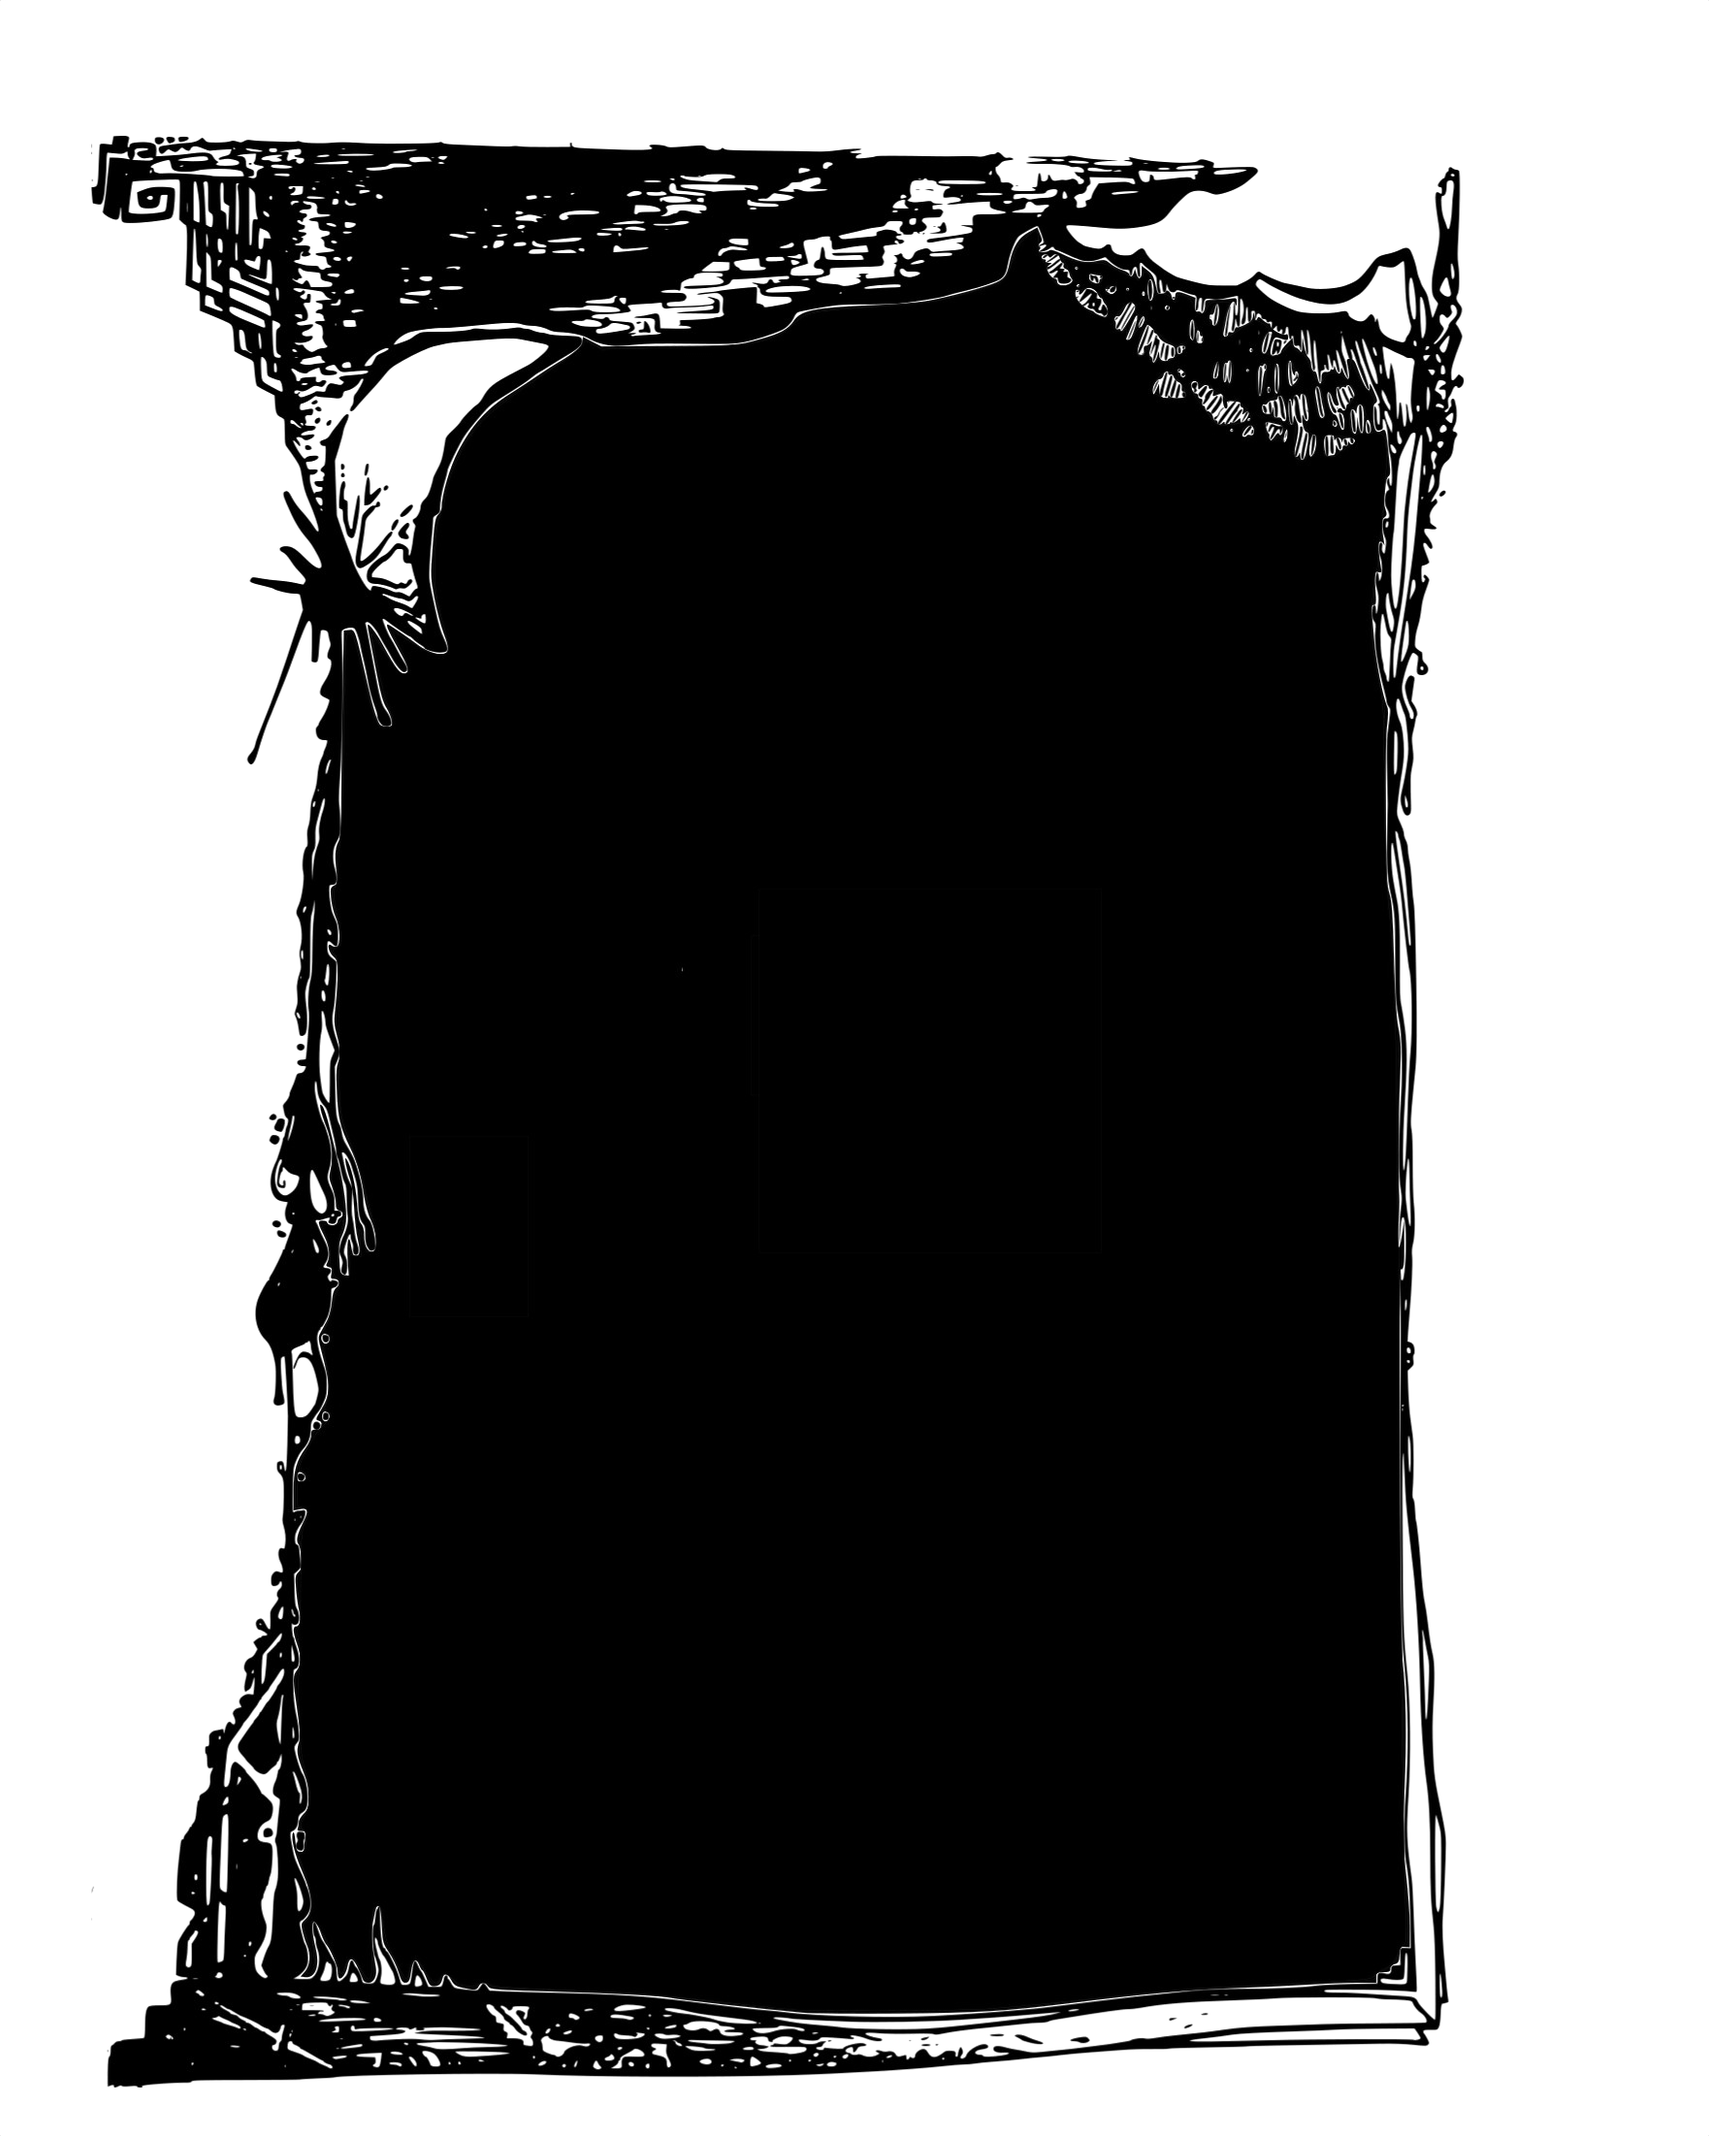
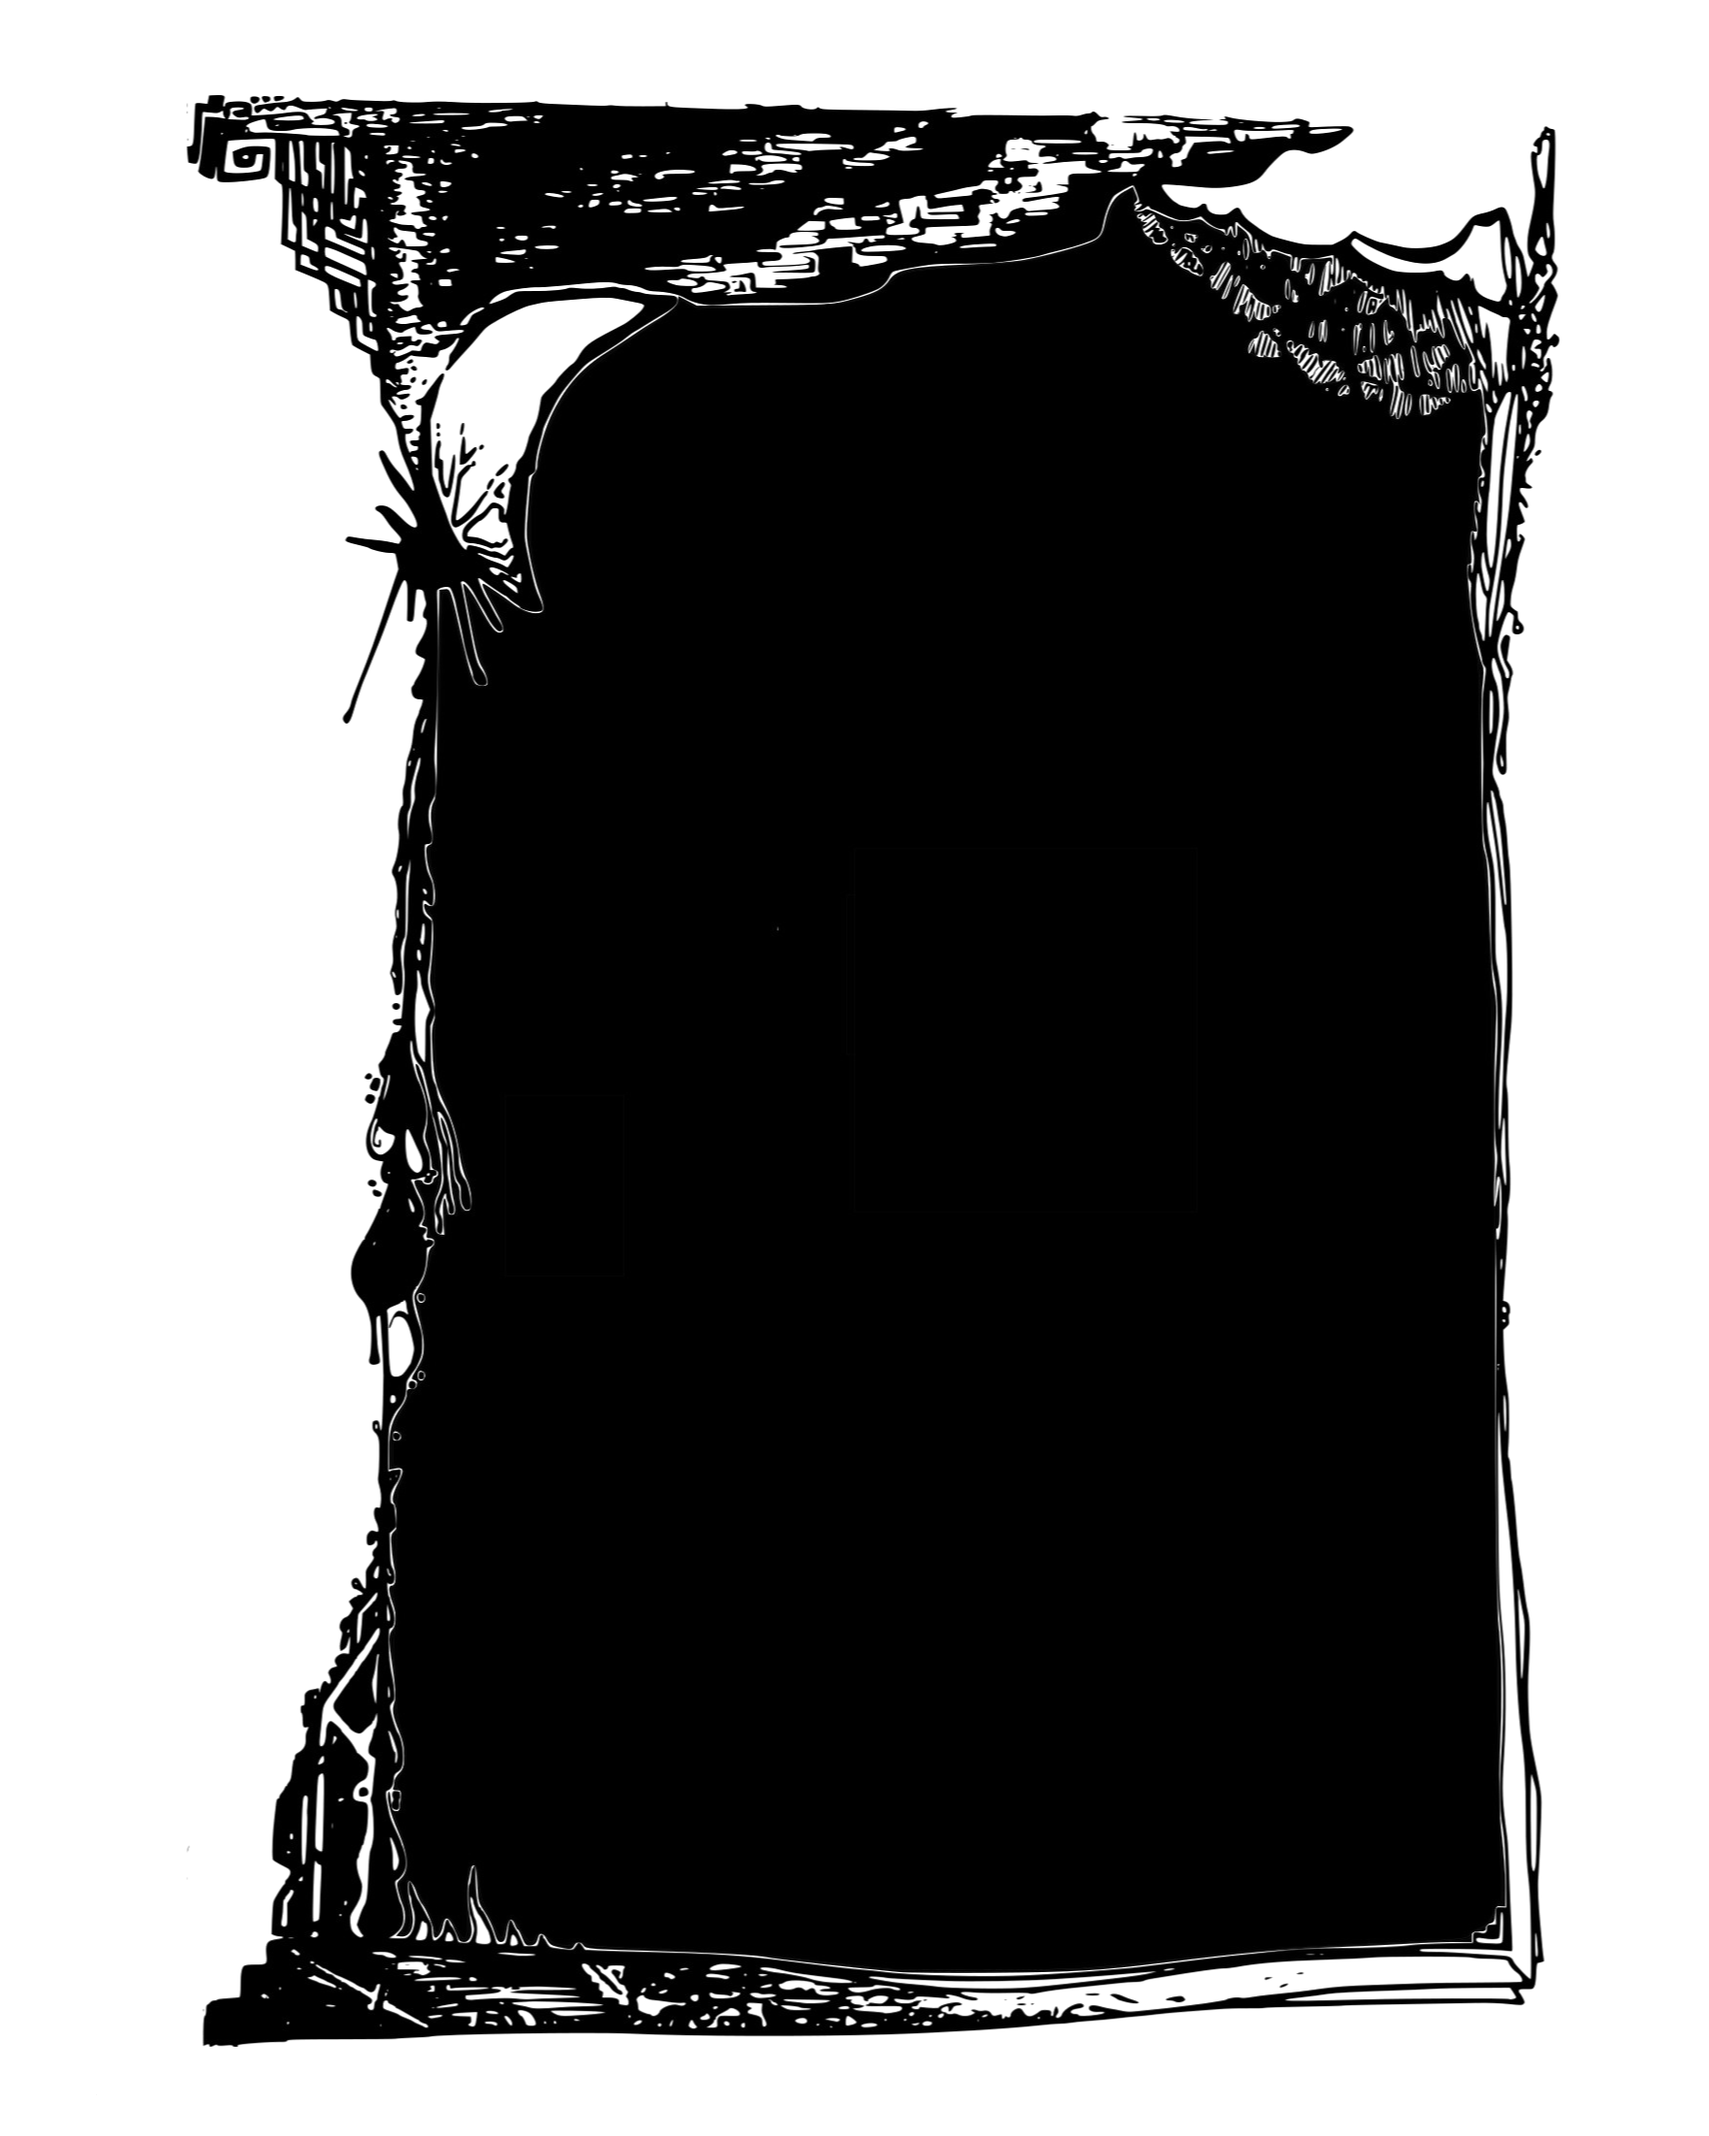
Audio: center the black frame and the Bandcamp player within it Codex: keep the figure off the border and blend its background
The audio-frame.png artwork had its painted black window off-center
within its own canvas (more empty margin on the right/bottom than
the left/top); recentered the asset itself via a measured pixel
shift, then recentered the Bandcamp player within the (now
centered) black zone to match.

The new codex corner figure overlapped the ink border on desktop
and its white jpg background clashed with the page; moved it to
the same 13%-ish safe inset used elsewhere and blended its
background with mix-blend-mode:multiply so the white disappears
against any page color.

Changed region(s): [[0.0312, 0.0309, 0.9364, 0.9882]]

diff --git a/styles.css b/styles.css
@@ -140,10 +140,14 @@ body.audio-page .frame-page { width: min(96vw, 1350px); }
 
 /* petite figure décorative calée dans le coin bas-gauche du cadre, dans la
    marge vide entre le contenu (centré) et le filet d'encre - % du cadre
-   pour rester à l'échelle, quelle que soit la largeur. */
-.codex-figure { position: absolute; left: 5%; bottom: 5%; width: 14%; height: auto; z-index: 1; }
+   pour rester à l'échelle, quelle que soit la largeur. Même inset que
+   .frame-content (13%) pour ne jamais déborder sur le filet d'encre.
+   mix-blend-mode:multiply - le fond blanc du jpg scanné devient transparent
+   (se fond dans la couleur de fond de la page, quelle qu'elle soit) tandis
+   que le trait noir reste noir. */
+.codex-figure { position: absolute; left: 15%; bottom: 14%; width: 12%; height: auto; z-index: 1; mix-blend-mode: multiply; }
 @media (max-width: 640px) {
-  .codex-figure { width: 20%; left: 4%; bottom: 3%; }
+  .codex-figure { width: 17%; left: 15%; bottom: 14%; }
 }
 
 /* les liens de contact doivent toujours tenir sur une seule ligne : une
@@ -173,7 +177,7 @@ body.audio-page .frame-page { width: min(96vw, 1350px); }
   position: relative; width: 100%; max-width: 950px; margin: 0 auto; flex-shrink: 0;
   aspect-ratio: 1762 / 2202;
   border-radius: 6px;
-  background-image: url(audio-frame.png);
+  background-image: url(audio-frame.png?v=2);
   background-repeat: no-repeat;
   background-size: 100% 100%;
 }
@@ -193,7 +197,7 @@ body.audio-page .frame-page { width: min(96vw, 1350px); }
      tailles, il faut un ratio hauteur/largeur d'au moins ~1.3 pour voir
      les deux titres ; 40% de large pour 55% de haut en donne ~1.72. */
   position: absolute;
-  left: 23%; top: 35%;
+  left: 30%; top: 22.5%;
   width: 40%; height: 55%;
   border: 0; min-width: 0; border-radius: 2px;
   background: #000;

diff --git a/index.html b/index.html
@@ -13,7 +13,7 @@
 <meta property="og:image" content="https://comodorosuleyman.github.io/accueil.jpg">
 <meta name="twitter:card" content="summary_large_image">
 <link rel="icon" type="image/png" href="favicon.png">
-<link rel="stylesheet" href="styles.css?v=68">
+<link rel="stylesheet" href="styles.css?v=69">
 </head>
 <body class="home">
 <h1 class="visually-hidden">Comodoro Süleyman</h1>

diff --git a/comodoro.html b/comodoro.html
@@ -13,7 +13,7 @@
 <meta property="og:image" content="https://comodorosuleyman.github.io/accueil.jpg">
 <meta name="twitter:card" content="summary_large_image">
 <link rel="icon" type="image/png" href="favicon.png">
-<link rel="stylesheet" href="styles.css?v=68">
+<link rel="stylesheet" href="styles.css?v=69">
 </head>
 <body class="comodoro-page">
 <div class="frame-page">

diff --git a/audio.html b/audio.html
@@ -13,7 +13,7 @@
 <meta property="og:image" content="https://comodorosuleyman.github.io/accueil.jpg">
 <meta name="twitter:card" content="summary_large_image">
 <link rel="icon" type="image/png" href="favicon.png">
-<link rel="stylesheet" href="styles.css?v=68">
+<link rel="stylesheet" href="styles.css?v=69">
 </head>
 <body class="audio-page">
 <div class="frame-page">

diff --git a/codex.html b/codex.html
@@ -13,7 +13,7 @@
 <meta property="og:image" content="https://comodorosuleyman.github.io/accueil.jpg">
 <meta name="twitter:card" content="summary_large_image">
 <link rel="icon" type="image/png" href="favicon.png">
-<link rel="stylesheet" href="styles.css?v=68">
+<link rel="stylesheet" href="styles.css?v=69">
 </head>
 <body class="codex-page">
 <div class="frame-page">

diff --git a/argumentum.html b/argumentum.html
@@ -13,7 +13,7 @@
 <meta property="og:image" content="https://comodorosuleyman.github.io/accueil.jpg">
 <meta name="twitter:card" content="summary_large_image">
 <link rel="icon" type="image/png" href="favicon.png">
-<link rel="stylesheet" href="styles.css?v=68">
+<link rel="stylesheet" href="styles.css?v=69">
 </head>
 <body>
 <main class="argumentum-page">

diff --git a/agenda.html b/agenda.html
@@ -13,7 +13,7 @@
 <meta property="og:image" content="https://comodorosuleyman.github.io/accueil.jpg">
 <meta name="twitter:card" content="summary_large_image">
 <link rel="icon" type="image/png" href="favicon.png">
-<link rel="stylesheet" href="styles.css?v=68">
+<link rel="stylesheet" href="styles.css?v=69">
 </head>
 <body>
 <div class="frame-page">

diff --git a/contact.html b/contact.html
@@ -13,7 +13,7 @@
 <meta property="og:image" content="https://comodorosuleyman.github.io/accueil.jpg">
 <meta name="twitter:card" content="summary_large_image">
 <link rel="icon" type="image/png" href="favicon.png">
-<link rel="stylesheet" href="styles.css?v=68">
+<link rel="stylesheet" href="styles.css?v=69">
 </head>
 <body>
 <div class="frame-page">

diff --git a/video.html b/video.html
@@ -13,7 +13,7 @@
 <meta property="og:image" content="https://comodorosuleyman.github.io/accueil.jpg">
 <meta name="twitter:card" content="summary_large_image">
 <link rel="icon" type="image/png" href="favicon.png">
-<link rel="stylesheet" href="styles.css?v=68">
+<link rel="stylesheet" href="styles.css?v=69">
 </head>
 <body>
 <div class="frame-page">
